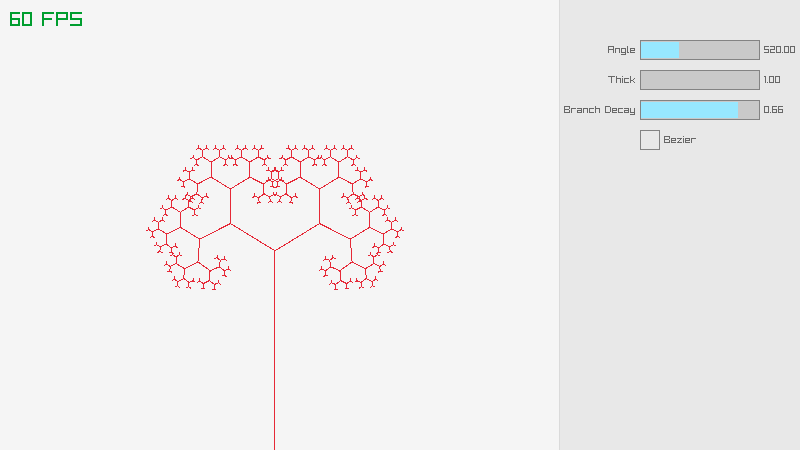
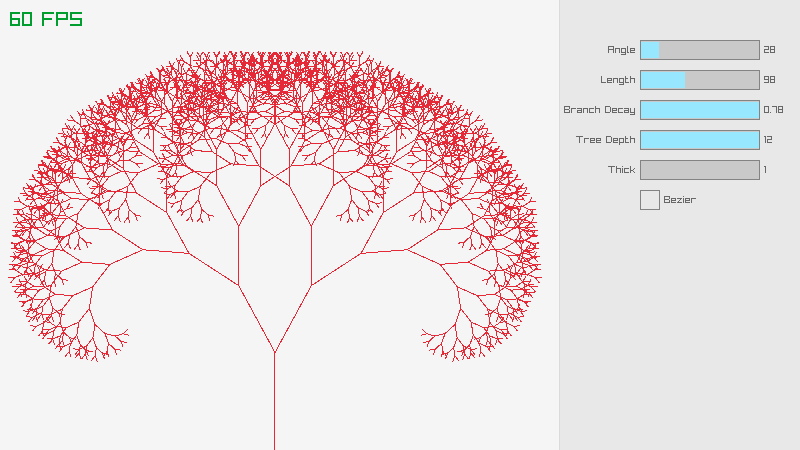
[examples] Added shapes_recursive_tree

diff --git a/examples/shapes/shapes_recursive_tree.c b/examples/shapes/shapes_recursive_tree.c
@@ -21,27 +21,20 @@
 #define RAYGUI_IMPLEMENTATION
 #include "raygui.h"                 // Required for GUI controls
 
-float theta;
-float thick = 1.0f;
-float branchDecay = 0.66f;
-bool bezier = false;
+//----------------------------------------------------------------------------------
+// Types and Structures Definition
+//----------------------------------------------------------------------------------
+typedef struct {
+    Vector2 start;
+    float angle;
+    float length;
+} Branch;
 
-void Branch(Vector2 start, float length, float angle) {
-    length *= branchDecay;
-
-    if (length > 2) {
-        Vector2 end = {
-            start.x + length * sinf(angle),
-            start.y - length * cosf(angle)
-        };
-
-        if(!bezier) DrawLineEx(start, end, thick, RED);  
-        else DrawLineBezier(start, end, thick, RED);  
-
-        Branch(end, length, angle + theta);
-        Branch(end, length, angle - theta);
-    }
-}
+//----------------------------------------------------------------------------------
+// Module Functions Declaration
+//----------------------------------------------------------------------------------
+static Vector2 CalculateBranchEnd(Vector2 start, float angle, float length);
+static void DrawBranch(Vector2 start, float angle, float length, float thick, bool bezier);
 
 //------------------------------------------------------------------------------------
 // Program main entry point
@@ -56,8 +49,12 @@ int main(void)
     InitWindow(screenWidth, screenHeight, "raylib [shapes] example - shapes recursive tree");
 
     Vector2 start = { (screenWidth / 2.0f) - 125, screenHeight };
-    Vector2 end = { (screenWidth / 2.0f) - 125, screenHeight - 120.0f };
-    float angle = 0.0f;
+    float angle = 45.0f;
+    float thick = 1.0f;   
+    float treeDepth = 1.0f;
+    float branchDecay = 0.66f;
+    float length = 120.0f;
+    bool bezier = false;
 
     SetTargetFPS(60);               // Set our game to run at 60 frames-per-second
     //--------------------------------------------------------------------------------------
@@ -65,28 +62,52 @@ int main(void)
     // Main game loop
     while (!WindowShouldClose())    // Detect window close button or ESC key
     {
-        float a = (angle / screenWidth) * 90.0f;
-        theta = a * (PI / 180.0f);
+        // Update
+        //----------------------------------------------------------------------------------
+        float theta = angle * DEG2RAD;
+        int maxBranches = (int)(powf(2, treeDepth) - 1); 
+        Branch branches[4096];
+        int count = 0;
         
+        branches[count++] = (Branch){start, 0.0f, length};
+        
+        for (int i = 0; i < count; i++) {
+            Branch branch = branches[i];
+            if (branch.length < 2) continue;
+            
+            Vector2 end = CalculateBranchEnd(branch.start, branch.angle, branch.length);
+            float nextLength = branch.length * branchDecay;
+            
+            if (count < maxBranches && nextLength >= 2) {
+                branches[count++] = (Branch){end, branch.angle + theta, nextLength};
+                branches[count++] = (Branch){end, branch.angle - theta, nextLength};
+            }
+        }
         // Draw
         //----------------------------------------------------------------------------------
         BeginDrawing();
 
             ClearBackground(RAYWHITE);
 
-            DrawLine(560, 0, 560, GetScreenHeight(), Fade(LIGHTGRAY, 0.6f));
-            DrawRectangle(560, 0, GetScreenWidth() - 500, GetScreenHeight(), Fade(LIGHTGRAY, 0.3f));
+            for (int i = 0; i < count; i++) {
+                Branch branch = branches[i];
+                if (branch.length >= 2) {
+                    DrawBranch(branch.start, branch.angle, branch.length, thick, bezier);
+                }
+            }
+
+            DrawLine(560, 0, 560, GetScreenHeight(), (Color){ 218, 218, 218, 255 });
+            DrawRectangle(560, 0, GetScreenWidth() - 500, GetScreenHeight(), (Color){ 232, 232, 232, 255 });
             
             // Draw GUI controls
             //------------------------------------------------------------------------------
-            GuiSliderBar((Rectangle){ 640, 40, 120, 20}, "Angle", TextFormat("%.2f", angle), &angle, 0, 1600);
-            GuiSliderBar((Rectangle){ 640, 70, 120, 20}, "Thick", TextFormat("%.2f", thick), &thick, 1, 8);
+            GuiSliderBar((Rectangle){ 640, 40, 120, 20}, "Angle", TextFormat("%.0f", angle), &angle, 0, 180);
+            GuiSliderBar((Rectangle){ 640, 70, 120, 20 }, "Length", TextFormat("%.0f", length), &length, 12.0f, 240.0f);
             GuiSliderBar((Rectangle){ 640, 100, 120, 20}, "Branch Decay", TextFormat("%.2f", branchDecay), &branchDecay, 0.1f, 0.78f);
-            GuiCheckBox((Rectangle){ 640, 130, 20, 20 }, "Bezier", &bezier);
+            GuiSliderBar((Rectangle){ 640, 130, 120, 20 }, "Tree Depth", TextFormat("%.0f", treeDepth), &treeDepth, 1.0f, 12.f);
+            GuiSliderBar((Rectangle){ 640, 160, 120, 20}, "Thick", TextFormat("%.0f", thick), &thick, 1, 8);
+            GuiCheckBox((Rectangle){ 640, 190, 20, 20 }, "Bezier", &bezier);
             //------------------------------------------------------------------------------
-            
-            DrawLineEx(start, end, thick, RED);
-            Branch(end, 120.0f, 0.0f);
 
             DrawFPS(10, 10);
 
@@ -100,4 +121,17 @@ int main(void)
     //--------------------------------------------------------------------------------------
 
     return 0;
+}
+
+static Vector2 CalculateBranchEnd(Vector2 start, float angle, float length) {
+    return (Vector2){
+        start.x + length * sinf(angle),
+        start.y - length * cosf(angle)
+    };
+}
+
+static void DrawBranch(Vector2 start, float angle, float length, float thick, bool bezier) {
+    Vector2 end = CalculateBranchEnd(start, angle, length);
+    if (!bezier) DrawLineEx(start, end, thick, RED);
+    else DrawLineBezier(start, end, thick, RED);
 }
